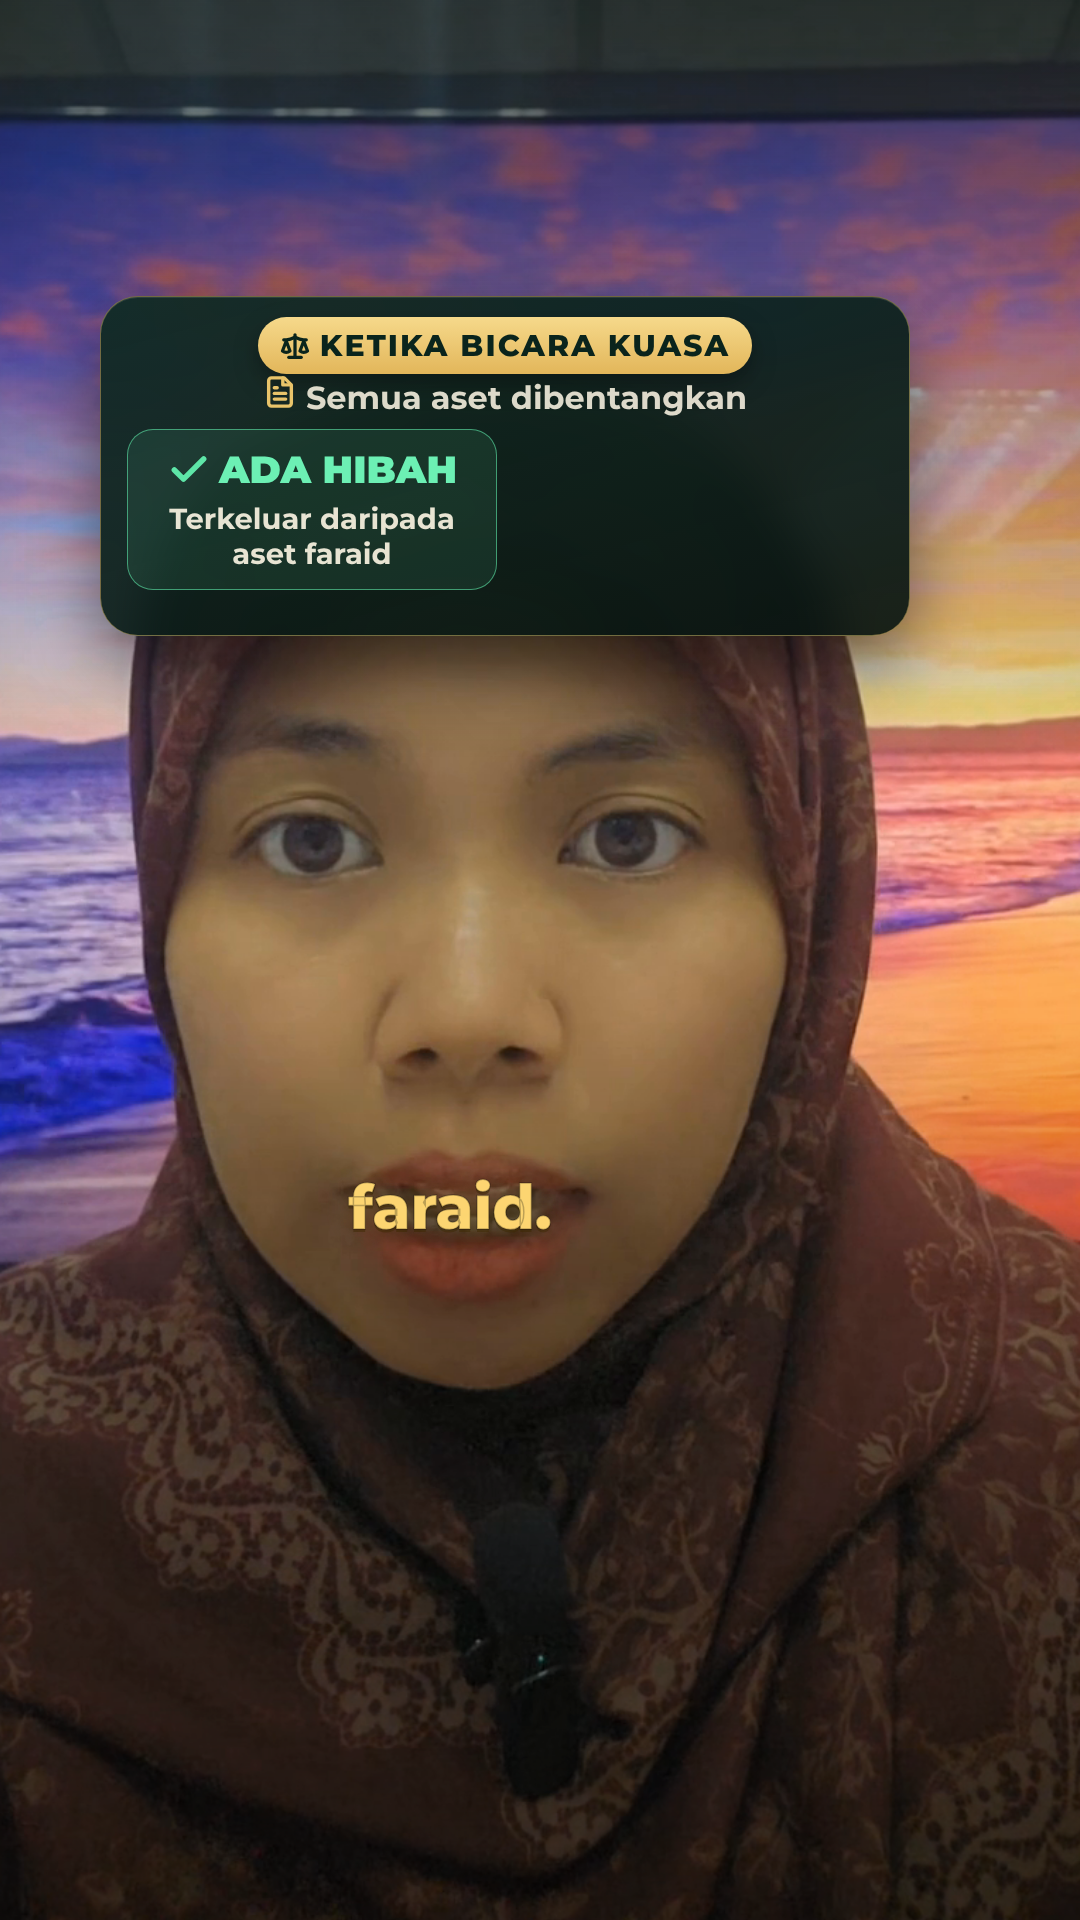
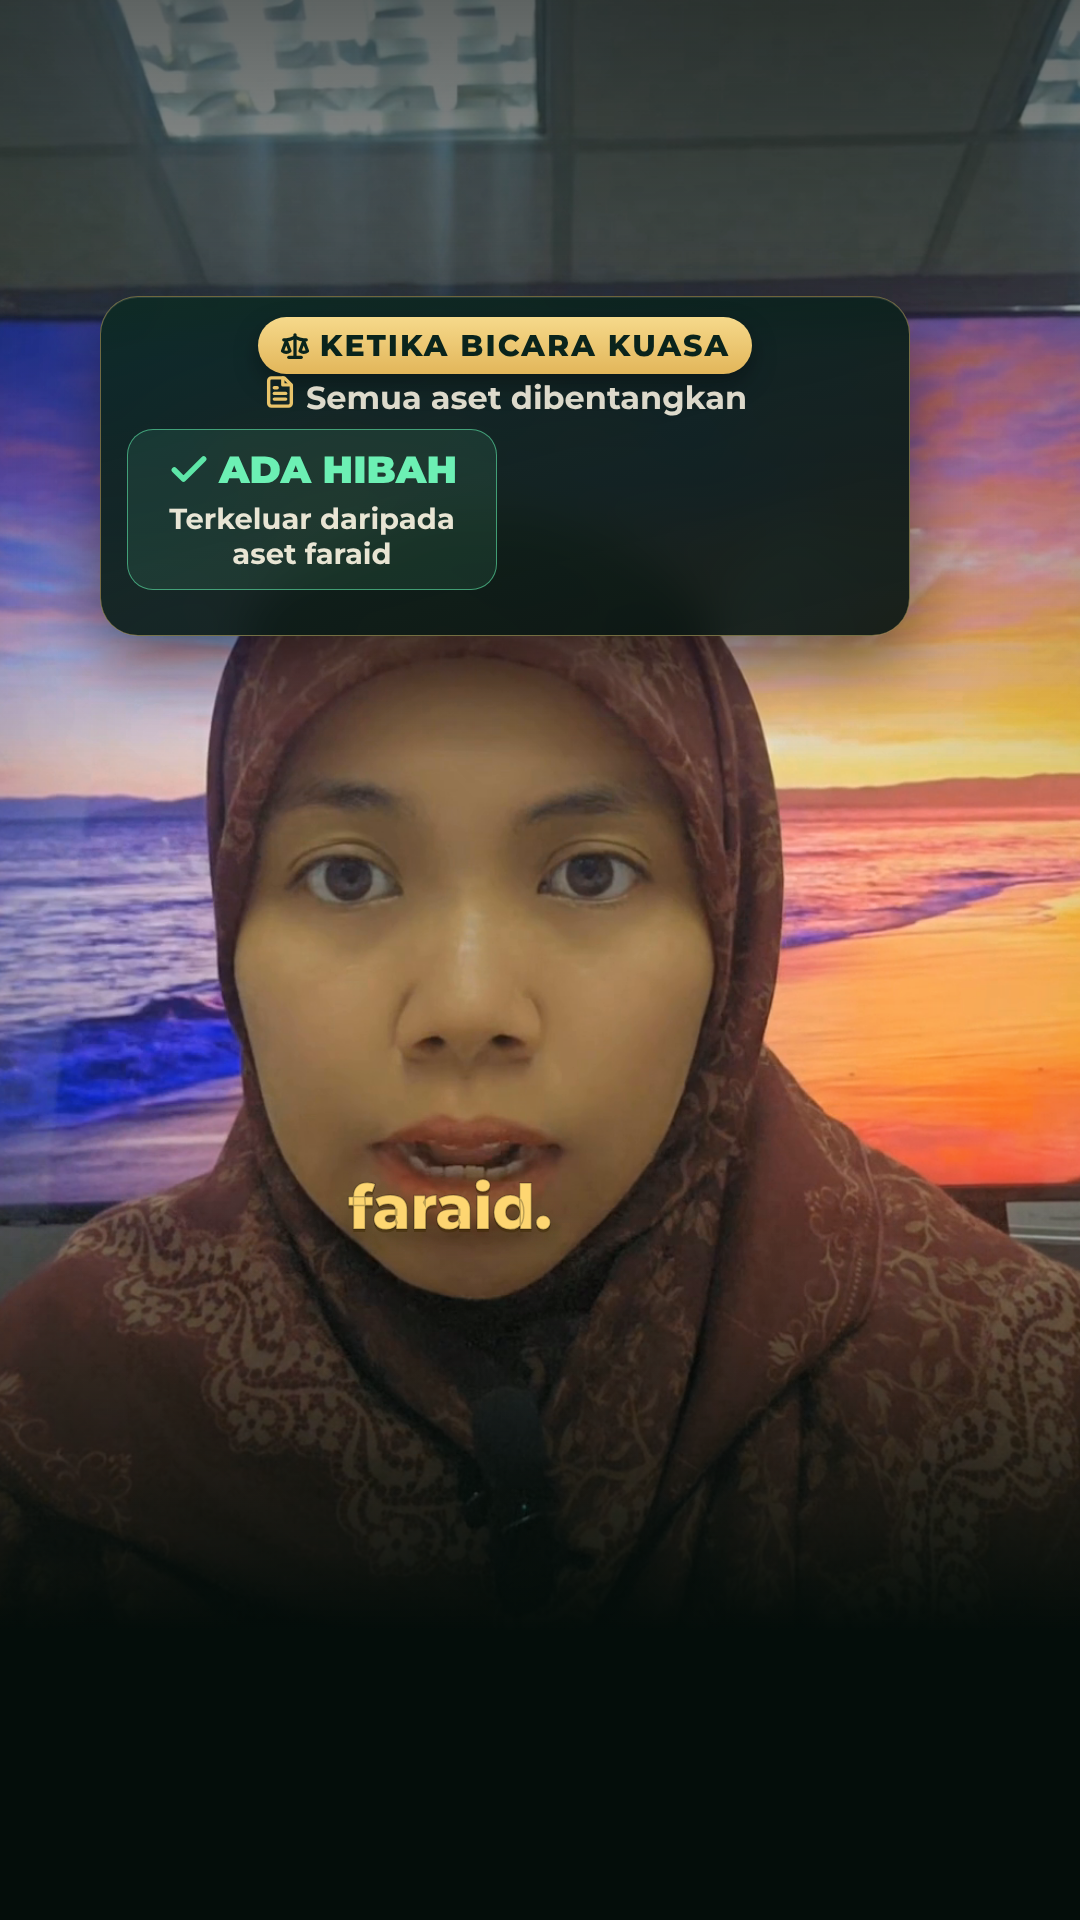
Zoom out the framing so the face reads smaller
Full-width frame (1.0x, alternating 1.08x punch-ins) moved up 250px so the
captions sit below the chin. A dark emerald fade fills the bottom band
under the platform UI.

Claude-Session: https://claude.ai/code/session_01RHe32evRqHmnTFSgiGWNc1

diff --git a/wasiyyah-reel/index.html b/wasiyyah-reel/index.html
@@ -13,8 +13,9 @@
       #aroll { position: absolute; left: 0; top: 0; width: 1080px; height: 1920px; object-fit: cover; }
       #scrim-top { position: absolute; left: 0; right: 0; top: 0; height: 760px; z-index: 2;
         background: linear-gradient(180deg, rgba(2,10,8,.62) 0%, rgba(2,10,8,.30) 45%, rgba(2,10,8,0) 100%); }
-      #scrim-bot { position: absolute; left: 0; right: 0; bottom: 0; height: 900px; z-index: 2;
-        background: linear-gradient(0deg, rgba(0,0,0,.55) 0%, rgba(0,0,0,.32) 45%, rgba(0,0,0,0) 100%); }
+      #base { position: absolute; inset: 0; z-index: 0; background: linear-gradient(180deg, #0b231c 0%, #040d0a 100%); }
+      #scrim-bot { position: absolute; left: 0; right: 0; bottom: 0; height: 720px; z-index: 2;
+        background: linear-gradient(0deg, #040d0a 0%, #040d0a 40%, rgba(4,13,10,.6) 62%, rgba(4,13,10,.22) 82%, rgba(4,13,10,0) 100%); }
       #frost { position: absolute; inset: 0; z-index: 3; opacity: 0;
         background: radial-gradient(ellipse at 50% 45%, rgba(160,220,255,0) 45%, rgba(160,220,255,.16) 78%, rgba(220,245,255,.42) 100%);
         box-shadow: inset 0 0 90px rgba(200,240,255,.45); }
@@ -25,6 +26,7 @@
   </head>
   <body>
     <div id="root" data-composition-id="main" data-start="0" data-duration="115.7" data-width="1080" data-height="1920">
+      <div id="base" data-layout-ignore></div>
       <div id="shake"><div id="cam">
         <video id="aroll" data-color-grading="{&quot;preset&quot;:&quot;skin-soft&quot;,&quot;intensity&quot;:0.62,&quot;adjust&quot;:{&quot;exposure&quot;:0.08,&quot;contrast&quot;:0.07,&quot;highlights&quot;:-0.18,&quot;shadows&quot;:0.13,&quot;whites&quot;:-0.05,&quot;blacks&quot;:0,&quot;temperature&quot;:-0.04,&quot;tint&quot;:0.01,&quot;vibrance&quot;:0.04,&quot;saturation&quot;:0},&quot;details&quot;:{&quot;vignette&quot;:0.05,&quot;vignetteMidpoint&quot;:0.5,&quot;vignetteRoundness&quot;:0,&quot;vignetteFeather&quot;:0.65,&quot;grain&quot;:0,&quot;grainSize&quot;:0.25,&quot;grainRoughness&quot;:0.5},&quot;effects&quot;:{&quot;blur&quot;:0,&quot;pixelate&quot;:0,&quot;chromaBleed&quot;:0,&quot;tapeDamage&quot;:0,&quot;tapeTracking&quot;:0,&quot;tapeNoise&quot;:1,&quot;tapeSpeed&quot;:0.5,&quot;filmArtifacts&quot;:0,&quot;halftone&quot;:0,&quot;halftoneSize&quot;:0,&quot;twoInkPrint&quot;:0,&quot;twoInkPrintSize&quot;:0,&quot;ascii&quot;:0,&quot;asciiSize&quot;:0.06578947368421052,&quot;asciiInvert&quot;:0,&quot;asciiStyle&quot;:0,&quot;asciiColor&quot;:1,&quot;asciiRotation&quot;:0,&quot;dither&quot;:0,&quot;ditherSize&quot;:0,&quot;bloom&quot;:0,&quot;bloomRadius&quot;:8,&quot;monoScreen&quot;:0,&quot;monoScreenSize&quot;:0,&quot;monoScreenAngle&quot;:0,&quot;monoScreenSpread&quot;:0,&quot;monoScreenShape&quot;:0,&quot;monoScreenInvert&quot;:0,&quot;scanlines&quot;:0,&quot;scanlineCount&quot;:0,&quot;scanlineSoftness&quot;:0,&quot;chromaticAberration&quot;:0,&quot;chromaticAngle&quot;:0,&quot;crtCurvature&quot;:0,&quot;digitalGlitch&quot;:0,&quot;digitalGlitchColorSplit&quot;:0,&quot;digitalGlitchLineTear&quot;:0,&quot;digitalGlitchPixelate&quot;:0,&quot;digitalGlitchBlockAmount&quot;:0,&quot;digitalGlitchBlockDisplacement&quot;:0,&quot;digitalGlitchBlockOpacity&quot;:0,&quot;digitalGlitchSpeed&quot;:0,&quot;engraving&quot;:0,&quot;engravingSpacing&quot;:0.4117647058823529,&quot;engravingMinThickness&quot;:0.2,&quot;engravingMaxThickness&quot;:0.4571428571428572,&quot;engravingAngle&quot;:0.25,&quot;engravingContrast&quot;:0.4666666666666667,&quot;engravingSharpness&quot;:0.59,&quot;engravingWave&quot;:0.2,&quot;engravingWaveFrequency&quot;:0.2222222222222222,&quot;crosshatch&quot;:0,&quot;crosshatchSpacing&quot;:0.28,&quot;crosshatchThickness&quot;:0.25,&quot;crosshatchAngle&quot;:0.25,&quot;crosshatchContrast&quot;:0.3333333333333333,&quot;crosshatchEdges&quot;:0.5,&quot;crosshatchLineWeight&quot;:0,&quot;crosshatchWave&quot;:0.33,&quot;crosshatchWaveFrequency&quot;:0.2222222222222222,&quot;kuwahara&quot;:0,&quot;kuwaharaRadius&quot;:0.14285714285714285,&quot;kuwaharaSharpness&quot;:0.3125,&quot;kuwaharaSaturation&quot;:0.5},&quot;lut&quot;:null,&quot;colorSpace&quot;:&quot;rec709&quot;}" class="clip" src="assets/aroll.mp4" data-start="0" data-duration="115.7" data-track-index="0" data-has-audio="true" data-volume="1" playsinline></video>
       </div></div>
@@ -116,13 +118,13 @@
     </div>
     <script>
       const tl = gsap.timeline({ paused: true });
-      const CAM = [[0.0, 2.5, -142.5, -572.0, 1.3, -150.69, -588.38, 1.3156], [4.733, 1.233, -195.0, -728.0, 1.4, -203.82, -745.63, 1.4168], [5.967, 2.367, -142.5, -572.0, 1.3, -150.69, -588.38, 1.3156], [8.333, 3.567, -195.0, -728.0, 1.4, -203.82, -745.63, 1.4168], [11.9, 2.933, -142.5, -572.0, 1.3, -150.69, -588.38, 1.3156], [14.833, 2.533, -195.0, -728.0, 1.4, -203.82, -745.63, 1.4168], [17.367, 2.333, -142.5, -572.0, 1.3, -150.69, -588.38, 1.3156], [19.7, 2.867, -195.0, -728.0, 1.4, -203.82, -745.63, 1.4168], [22.567, 0.8, -142.5, -572.0, 1.3, -150.69, -588.38, 1.3156], [23.367, 0.5, -142.5, -572.0, 1.3, -150.69, -588.38, 1.3156], [23.867, 1.867, -195.0, -728.0, 1.4, -203.82, -745.63, 1.4168], [25.733, 3.2, -142.5, -572.0, 1.3, -150.69, -588.38, 1.3156], [28.933, 6.933, -195.0, -728.0, 1.4, -203.82, -745.63, 1.4168], [35.867, 0.267, -195.0, -728.0, 1.4, -203.82, -745.63, 1.4168], [36.133, 1.6, -142.5, -572.0, 1.3, -150.69, -588.38, 1.3156], [37.733, 3.0, -195.0, -728.0, 1.4, -203.82, -745.63, 1.4168], [40.733, 2.233, -142.5, -572.0, 1.3, -150.69, -588.38, 1.3156], [42.967, 1.967, -195.0, -728.0, 1.4, -203.82, -745.63, 1.4168], [44.933, 1.433, -142.5, -572.0, 1.3, -150.69, -588.38, 1.3156], [46.367, 3.433, -195.0, -728.0, 1.4, -203.82, -745.63, 1.4168], [49.8, 2.167, -142.5, -572.0, 1.3, -150.69, -588.38, 1.3156], [51.967, 1.4, -195.0, -728.0, 1.4, -203.82, -745.63, 1.4168], [53.367, 2.3, -142.5, -572.0, 1.3, -150.69, -588.38, 1.3156], [55.667, 3.3, -195.0, -728.0, 1.4, -203.82, -745.63, 1.4168], [58.967, 0.7, -195.0, -728.0, 1.4, -203.82, -745.63, 1.4168], [59.667, 1.4, -142.5, -572.0, 1.3, -150.69, -588.38, 1.3156], [61.067, 1.767, -195.0, -728.0, 1.4, -203.82, -745.63, 1.4168], [62.833, 1.2, -142.5, -572.0, 1.3, -150.69, -588.38, 1.3156], [64.033, 1.6, -195.0, -728.0, 1.4, -203.82, -745.63, 1.4168], [65.633, 0.833, -142.5, -572.0, 1.3, -150.69, -588.38, 1.3156], [66.467, 1.767, -195.0, -728.0, 1.4, -203.82, -745.63, 1.4168], [68.233, 3.133, -142.5, -572.0, 1.3, -150.69, -588.38, 1.3156], [71.367, 0.1, -142.5, -572.0, 1.3, -150.69, -588.38, 1.3156], [71.467, 0.633, -142.5, -572.0, 1.3, -150.69, -588.38, 1.3156], [72.1, 3.233, -195.0, -728.0, 1.4, -203.82, -745.63, 1.4168], [75.333, 1.6, -142.5, -572.0, 1.3, -150.69, -588.38, 1.3156], [76.933, 1.6, -195.0, -728.0, 1.4, -203.82, -745.63, 1.4168], [78.533, 4.5, -142.5, -572.0, 1.3, -150.69, -588.38, 1.3156], [83.033, 1.867, -195.0, -728.0, 1.4, -203.82, -745.63, 1.4168], [84.9, 1.733, -142.5, -572.0, 1.3, -150.69, -588.38, 1.3156], [86.633, 2.367, -195.0, -728.0, 1.4, -203.82, -745.63, 1.4168], [89.0, 4.9, -142.5, -572.0, 1.3, -150.69, -588.38, 1.3156], [93.9, 2.867, -195.0, -728.0, 1.4, -203.82, -745.63, 1.4168], [96.767, 0.2, -195.0, -728.0, 1.4, -203.82, -745.63, 1.4168], [96.967, 7.133, -142.5, -572.0, 1.3, -150.69, -588.38, 1.3156], [104.1, 1.067, -195.0, -728.0, 1.4, -203.82, -745.63, 1.4168], [105.167, 0.167, -195.0, -728.0, 1.4, -203.82, -745.63, 1.4168], [105.333, 0.7, -195.0, -728.0, 1.4, -203.82, -745.63, 1.4168], [106.033, 2.533, -142.5, -572.0, 1.3, -150.69, -588.38, 1.3156], [108.567, 2.533, -195.0, -728.0, 1.4, -203.82, -745.63, 1.4168], [111.1, 0.267, -195.0, -728.0, 1.4, -203.82, -745.63, 1.4168], [111.367, 1.733, -142.5, -572.0, 1.3, -150.69, -588.38, 1.3156], [113.1, 2.6, -195.0, -728.0, 1.4, -203.82, -745.63, 1.4168]];
+      const CAM = [[0.0, 2.5, -0.0, -250.0, 1.0, -6.48, -262.6, 1.012], [4.733, 1.233, -43.2, -334.04, 1.08, -50.22, -347.66, 1.093], [5.967, 2.367, -0.0, -250.0, 1.0, -6.48, -262.6, 1.012], [8.333, 3.567, -43.2, -334.04, 1.08, -50.22, -347.66, 1.093], [11.9, 2.933, -0.0, -250.0, 1.0, -6.48, -262.6, 1.012], [14.833, 2.533, -43.2, -334.04, 1.08, -50.22, -347.66, 1.093], [17.367, 2.333, -0.0, -250.0, 1.0, -6.48, -262.6, 1.012], [19.7, 2.867, -43.2, -334.04, 1.08, -50.22, -347.66, 1.093], [22.567, 0.8, -0.0, -250.0, 1.0, -6.48, -262.6, 1.012], [23.367, 0.5, -0.0, -250.0, 1.0, -6.48, -262.6, 1.012], [23.867, 1.867, -43.2, -334.04, 1.08, -50.22, -347.66, 1.093], [25.733, 3.2, -0.0, -250.0, 1.0, -6.48, -262.6, 1.012], [28.933, 6.933, -43.2, -334.04, 1.08, -50.22, -347.66, 1.093], [35.867, 0.267, -43.2, -334.04, 1.08, -50.22, -347.66, 1.093], [36.133, 1.6, -0.0, -250.0, 1.0, -6.48, -262.6, 1.012], [37.733, 3.0, -43.2, -334.04, 1.08, -50.22, -347.66, 1.093], [40.733, 2.233, -0.0, -250.0, 1.0, -6.48, -262.6, 1.012], [42.967, 1.967, -43.2, -334.04, 1.08, -50.22, -347.66, 1.093], [44.933, 1.433, -0.0, -250.0, 1.0, -6.48, -262.6, 1.012], [46.367, 3.433, -43.2, -334.04, 1.08, -50.22, -347.66, 1.093], [49.8, 2.167, -0.0, -250.0, 1.0, -6.48, -262.6, 1.012], [51.967, 1.4, -43.2, -334.04, 1.08, -50.22, -347.66, 1.093], [53.367, 2.3, -0.0, -250.0, 1.0, -6.48, -262.6, 1.012], [55.667, 3.3, -43.2, -334.04, 1.08, -50.22, -347.66, 1.093], [58.967, 0.7, -43.2, -334.04, 1.08, -50.22, -347.66, 1.093], [59.667, 1.4, -0.0, -250.0, 1.0, -6.48, -262.6, 1.012], [61.067, 1.767, -43.2, -334.04, 1.08, -50.22, -347.66, 1.093], [62.833, 1.2, -0.0, -250.0, 1.0, -6.48, -262.6, 1.012], [64.033, 1.6, -43.2, -334.04, 1.08, -50.22, -347.66, 1.093], [65.633, 0.833, -0.0, -250.0, 1.0, -6.48, -262.6, 1.012], [66.467, 1.767, -43.2, -334.04, 1.08, -50.22, -347.66, 1.093], [68.233, 3.133, -0.0, -250.0, 1.0, -6.48, -262.6, 1.012], [71.367, 0.1, -0.0, -250.0, 1.0, -6.48, -262.6, 1.012], [71.467, 0.633, -0.0, -250.0, 1.0, -6.48, -262.6, 1.012], [72.1, 3.233, -43.2, -334.04, 1.08, -50.22, -347.66, 1.093], [75.333, 1.6, -0.0, -250.0, 1.0, -6.48, -262.6, 1.012], [76.933, 1.6, -43.2, -334.04, 1.08, -50.22, -347.66, 1.093], [78.533, 4.5, -0.0, -250.0, 1.0, -6.48, -262.6, 1.012], [83.033, 1.867, -43.2, -334.04, 1.08, -50.22, -347.66, 1.093], [84.9, 1.733, -0.0, -250.0, 1.0, -6.48, -262.6, 1.012], [86.633, 2.367, -43.2, -334.04, 1.08, -50.22, -347.66, 1.093], [89.0, 4.9, -0.0, -250.0, 1.0, -6.48, -262.6, 1.012], [93.9, 2.867, -43.2, -334.04, 1.08, -50.22, -347.66, 1.093], [96.767, 0.2, -43.2, -334.04, 1.08, -50.22, -347.66, 1.093], [96.967, 7.133, -0.0, -250.0, 1.0, -6.48, -262.6, 1.012], [104.1, 1.067, -43.2, -334.04, 1.08, -50.22, -347.66, 1.093], [105.167, 0.167, -43.2, -334.04, 1.08, -50.22, -347.66, 1.093], [105.333, 0.7, -43.2, -334.04, 1.08, -50.22, -347.66, 1.093], [106.033, 2.533, -0.0, -250.0, 1.0, -6.48, -262.6, 1.012], [108.567, 2.533, -43.2, -334.04, 1.08, -50.22, -347.66, 1.093], [111.1, 0.267, -43.2, -334.04, 1.08, -50.22, -347.66, 1.093], [111.367, 1.733, -0.0, -250.0, 1.0, -6.48, -262.6, 1.012], [113.1, 2.6, -43.2, -334.04, 1.08, -50.22, -347.66, 1.093]];
       CAM.forEach(([t, d, x0, y0, s0, x1, y1, s1]) => {
         tl.set('#cam', { x: x0, y: y0, scale: s0 }, t);
         tl.to('#cam', { x: x1, y: y1, scale: s1, duration: d, ease: 'none' }, t);
       });
       // giant-hook push-in (2.5s -> 4.7s)
-      tl.to('#cam', { scale: 1.55, x: -(525 * 1.55 - 540), y: -(1050 - (1050 - 440) * 1.30 / 1.55) * 1.55, duration: 2.0, ease: 'power2.in' }, 2.5);
+      tl.to('#cam', { scale: 1.25, x: -(540 * 1.25 - 540), y: -(1050 - (1050 - 250) / 1.25) * 1.25, duration: 2.0, ease: 'power2.in' }, 2.5);
       tl.fromTo('#flash', { opacity: 0.85 }, { opacity: 0, duration: 0.22, ease: 'power2.out', immediateRender: false }, 3.37);
       tl.set('#flash', { opacity: 0 }, 0);
     tl.fromTo('#frost',{opacity:0,scale:1.08},{opacity:1,scale:1,duration:0.18,ease:'power2.out',immediateRender:false},7.42);

diff --git a/wasiyyah-reel/tools/build.py b/wasiyyah-reel/tools/build.py
@@ -544,8 +544,9 @@ with open(os.path.join(PROJ, "compositions", "captions.html"), "w") as f:
 """)
 
 # ================================================================ CAMERA framing
-XC, YF = 525.0, 1050.0
-FR = {"A": (1.30, 440.0), "B": (1.40, 520.0)}
+XC, YF = 540.0, 1050.0
+# zoomed out: full-width frame shifted up 250px (face higher, below-chin band free for captions)
+FR = {"A": (1.0, 250.0), "B": (1.08, 309.3)}
 def tf(s, T):
     return [round(-(XC * s - 540), 2), round(-T * s, 2), s]
 def drift(s, T, k=1.012):
@@ -623,8 +624,9 @@ index = f"""<!doctype html>
       #aroll {{ position: absolute; left: 0; top: 0; width: {W}px; height: {H}px; object-fit: cover; }}
       #scrim-top {{ position: absolute; left: 0; right: 0; top: 0; height: 760px; z-index: 2;
         background: linear-gradient(180deg, rgba(2,10,8,.62) 0%, rgba(2,10,8,.30) 45%, rgba(2,10,8,0) 100%); }}
-      #scrim-bot {{ position: absolute; left: 0; right: 0; bottom: 0; height: 900px; z-index: 2;
-        background: linear-gradient(0deg, rgba(0,0,0,.55) 0%, rgba(0,0,0,.32) 45%, rgba(0,0,0,0) 100%); }}
+      #base {{ position: absolute; inset: 0; z-index: 0; background: linear-gradient(180deg, #0b231c 0%, #040d0a 100%); }}
+      #scrim-bot {{ position: absolute; left: 0; right: 0; bottom: 0; height: 720px; z-index: 2;
+        background: linear-gradient(0deg, #040d0a 0%, #040d0a 40%, rgba(4,13,10,.6) 62%, rgba(4,13,10,.22) 82%, rgba(4,13,10,0) 100%); }}
       #frost {{ position: absolute; inset: 0; z-index: 3; opacity: 0;
         background: radial-gradient(ellipse at 50% 45%, rgba(160,220,255,0) 45%, rgba(160,220,255,.16) 78%, rgba(220,245,255,.42) 100%);
         box-shadow: inset 0 0 90px rgba(200,240,255,.45); }}
@@ -635,6 +637,7 @@ index = f"""<!doctype html>
   </head>
   <body>
     <div id="root" data-composition-id="main" data-start="0" data-duration="{D}" data-width="{W}" data-height="{H}">
+      <div id="base" data-layout-ignore></div>
       <div id="shake"><div id="cam">
         <video id="aroll" class="clip" src="assets/aroll.mp4" data-start="0" data-duration="{D}" data-track-index="0" data-has-audio="true" data-volume="1" playsinline></video>
       </div></div>
@@ -655,7 +658,7 @@ index = f"""<!doctype html>
         tl.to('#cam', {{ x: x1, y: y1, scale: s1, duration: d, ease: 'none' }}, t);
       }});
       // giant-hook push-in (2.5s -> 4.7s)
-      tl.to('#cam', {{ scale: 1.55, x: -(525 * 1.55 - 540), y: -(1050 - (1050 - 440) * 1.30 / 1.55) * 1.55, duration: 2.0, ease: 'power2.in' }}, 2.5);
+      tl.to('#cam', {{ scale: 1.25, x: -(540 * 1.25 - 540), y: -(1050 - (1050 - 250) / 1.25) * 1.25, duration: 2.0, ease: 'power2.in' }}, 2.5);
       tl.fromTo('#flash', {{ opacity: 0.85 }}, {{ opacity: 0, duration: 0.22, ease: 'power2.out', immediateRender: false }}, 3.37);
       tl.set('#flash', {{ opacity: 0 }}, 0);
 {frost_js}{shake_js}      window.__timelines["main"] = tl;
